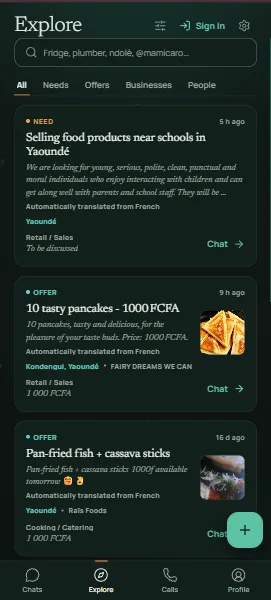
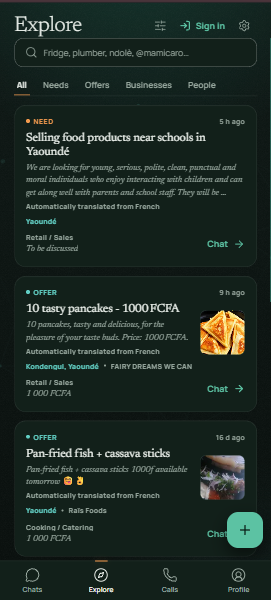
Serve screenshots at full resolution
- Jangirde: full 1905px screenshot for large screens, 960px copy for
  phones via srcset, so mobile visitors don't download unused pixels
- IN-MBOA phone screens re-encoded lossless at their original size
- Weight meter: page weight (125 KB) no longer counts lazy-loaded
  screenshots; the caption states their phone cost separately (96 KB)

Claude-Session: https://claude.ai/code/session_01963TVrNQ2QaLEie2qzvFaK

diff --git a/content.ts b/content.ts
@@ -28,7 +28,8 @@ export const hero = {
 export const pageWeight = {
   budgetKB: 200,
   readableKB: 24, // HTML + CSS + font: what the phone needs before it can show the page
-  totalKB: 175, // everything, including JavaScript, compressed as it travels
+  totalKB: 125, // everything the page needs, including JavaScript, compressed as it travels
+  shotsPhoneKB: 96, // project screenshots a phone downloads, only once scrolled to
 };
 
 export type CaseStudy = {
@@ -44,7 +45,15 @@ export type CaseStudy = {
   results?: string[];
   links: { label: string; href: string }[];
   /** Screenshots in /public/work. `phone` shots sit side by side; `desktop` shots take the full width. */
-  images?: { src: string; alt: string; width: number; height: number; kind: "phone" | "desktop" }[];
+  images?: {
+    src: string;
+    /** Optional smaller copies, so phones download a lighter file: "/work/x-960.webp 960w, /work/x.webp 1905w" */
+    srcSet?: string;
+    alt: string;
+    width: number;
+    height: number;
+    kind: "phone" | "desktop";
+  }[];
 };
 
 export const work: CaseStudy[] = [
@@ -96,10 +105,11 @@ export const work: CaseStudy[] = [
     links: [{ label: "Visit jangirde.com", href: "https://jangirde.com" }],
     images: [
       {
-        src: "/work/jangirde.webp",
+        src: "/work/jangirde-1905.webp",
+        srcSet: "/work/jangirde-960.webp 960w, /work/jangirde-1905.webp 1905w",
         alt: "Jangirde home page: 'Apprenez le Fulfulde avec facilité', with buttons to start for free or sign in",
-        width: 1200,
-        height: 511,
+        width: 1905,
+        height: 812,
         kind: "desktop",
       },
     ],

diff --git a/components/WeightMeter.tsx b/components/WeightMeter.tsx
@@ -5,7 +5,7 @@ import { pageWeight } from "@/content";
  * Pure HTML and CSS: it works before (and without) any JavaScript.
  */
 export function WeightMeter() {
-  const { budgetKB, readableKB, totalKB } = pageWeight;
+  const { budgetKB, readableKB, totalKB, shotsPhoneKB } = pageWeight;
   const pct = (kb: number) => `${Math.min(100, (kb / budgetKB) * 100)}%`;
   const ticks = [0, 0.25, 0.5, 0.75, 1].map((f) => Math.round(f * budgetKB));
   // Rough 3G download time: 400 kbit/s effective throughput plus one 300 ms round trip.
@@ -56,7 +56,7 @@ export function WeightMeter() {
       <figcaption id="meter-caption" className="mt-3 max-w-[38rem] text-sm text-muted">
         The black line marks {readableKB} KB: the point where the text is on screen and readable. A typical
         site with a photo slider and tracking scripts can cost ten times this budget on a phone that pays for
-        every megabyte.
+        every megabyte. Project screenshots load only when you scroll to them: about {shotsPhoneKB} KB more on most phones.
       </figcaption>
     </figure>
   );

diff --git a/app/page.tsx b/app/page.tsx
@@ -251,6 +251,8 @@ function Shots({ images }: { images: NonNullable<CaseStudy["images"]> }) {
     <img
       key={i.src}
       src={i.src}
+      srcSet={i.srcSet}
+      sizes={i.srcSet ? "(min-width: 1024px) 42rem, calc(100vw - 2rem)" : undefined}
       alt={i.alt}
       width={i.width}
       height={i.height}
